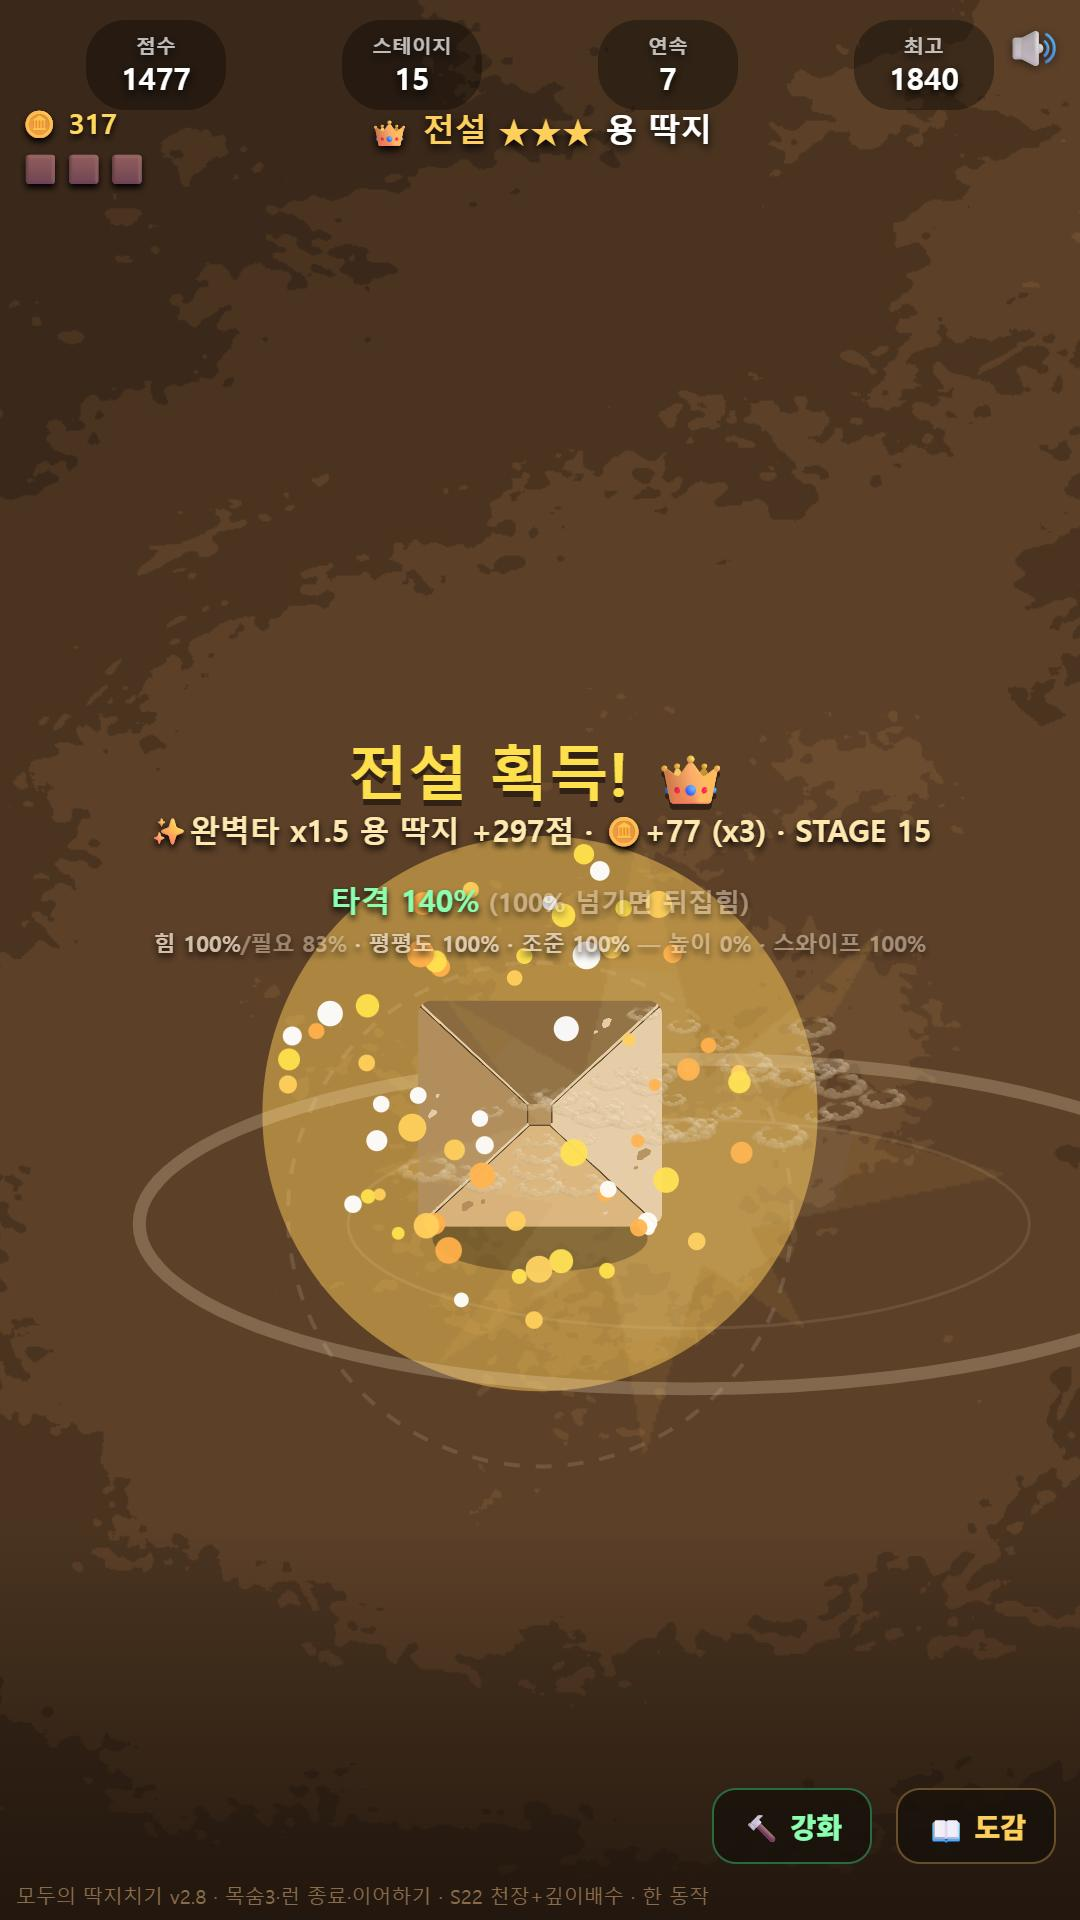
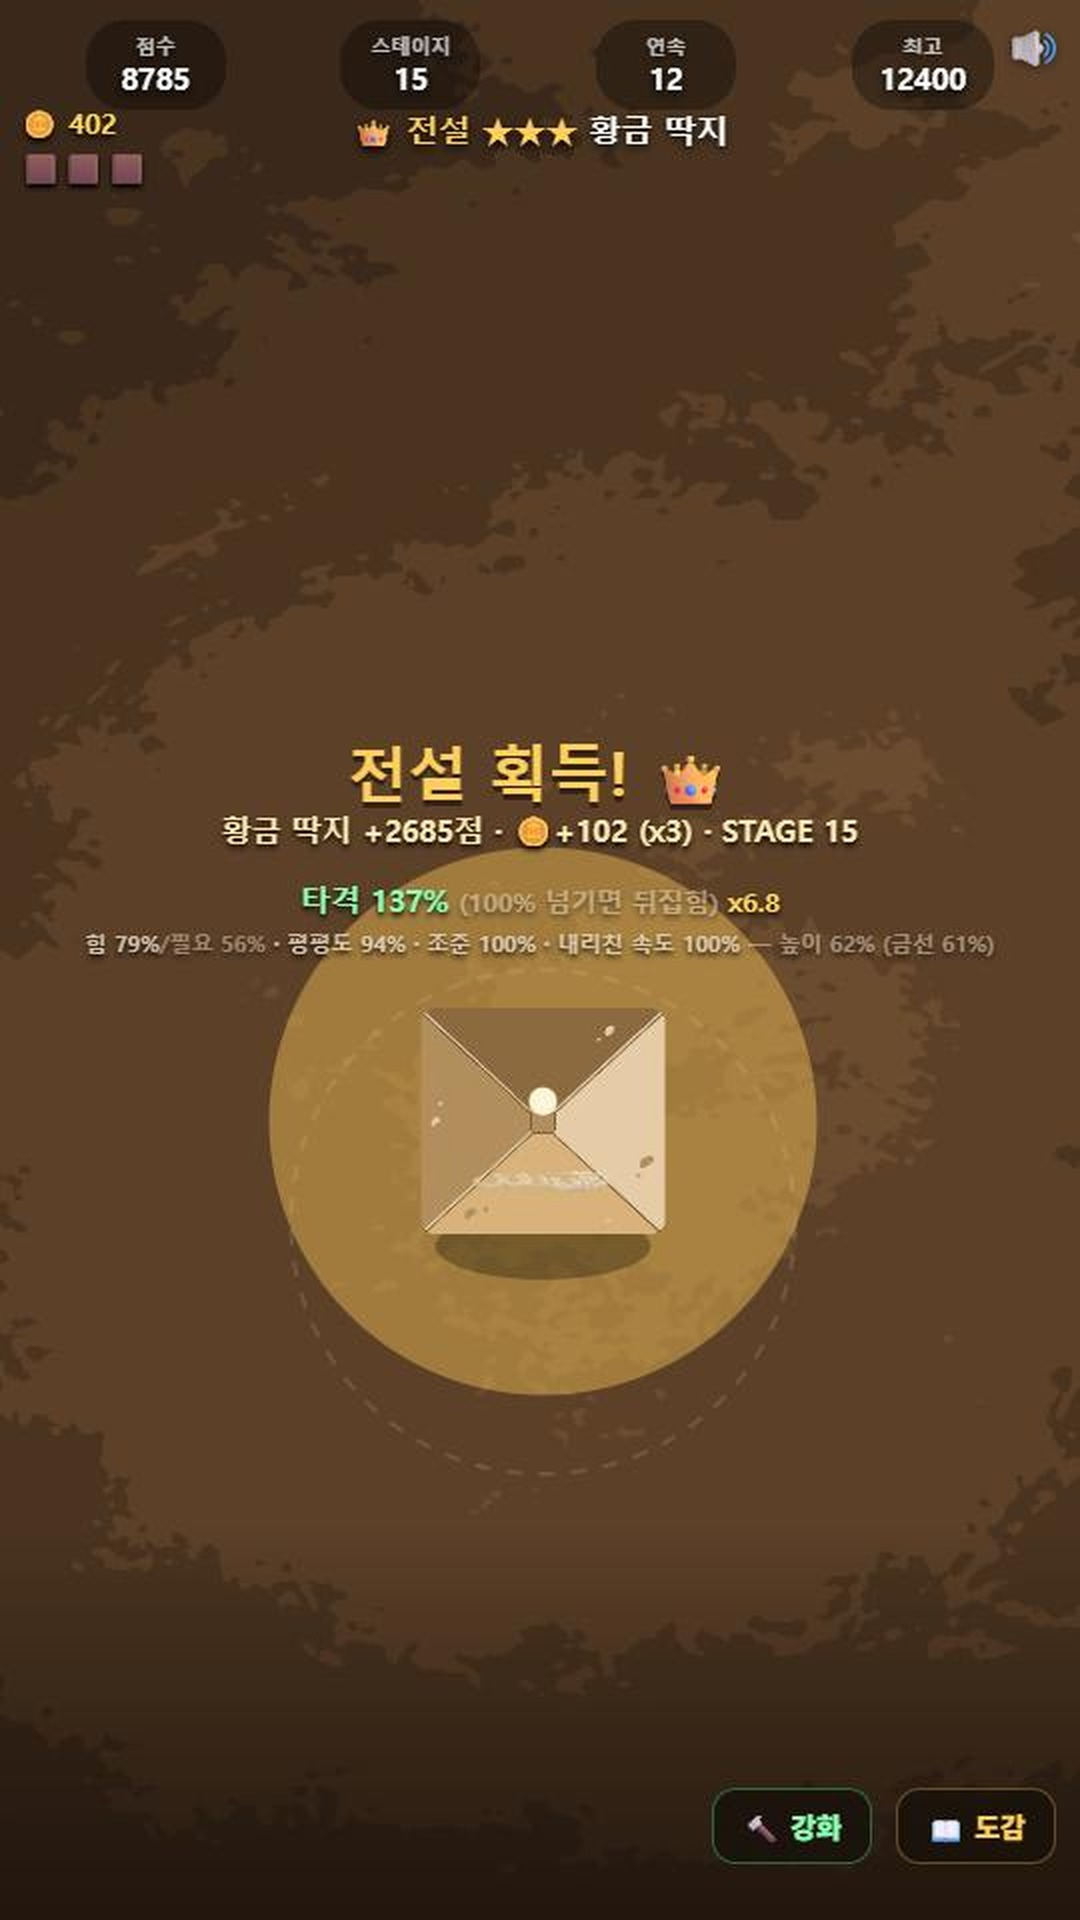
스토어 스크린샷 4장을 v3.0 화면으로 다시 찍었다
기존 3장은 v2.8 의 '랜덤 고스트 목표' UI 라, 지금 설치한 사람이 보는
화면과 다르다. v3.0 은 금선/안전선 두 선과 실시간 배수가 핵심이다.

  1 shot1-goldline  금선·안전선 + 실시간 배수 x6.9 가 보이는 조준 화면
  2 shot2-win       금선 정타 → 타격 137% x6.8 → 전설 황금 딱지 획득
  3 shot3-dex       도감 12/12
  4 shot4-shop      엽전 강화

1번을 맨 앞에 둔 이유: "아슬아슬할수록 배수가 크다"가 글 없이 읽혀야 한다.
금선 라벨(금선 x7)과 현재 배수(x6.9)가 한 화면에 같이 보이는 순간을 골랐다.
2번은 리워드 광고 버튼을 숨기고 찍었다 — 첫인상에 광고가 보이면 손해다.
9스테이지 이상은 딱지 '바로 위'가 아니라 '옆'을 쳐야 하므로(Dg),
조준도 실제 최적 지점에 맞춰 찍었다. 가운데로 찍으면 조준 고리가
빨갛게 나와 잘못 플레이하는 그림이 된다.

모두 1080x1920 JPEG, 9:16. 실제 게임을 직접 구동해 촬영했다.
옛 shot1~6-*.png(v1.3 이전)와 shot1-play.jpg(v2.8)는 비교용으로 남긴다.

diff --git a/STORE-LISTING.md b/STORE-LISTING.md
@@ -125,12 +125,17 @@ match /ddakji_scores/{uid} {
 ## 스토어 자산 (보유 현황)
 - ✅ 아이콘 `releases/icon-512.png` (512×512) — **바람개비 신아트로 교체됨**
 - ✅ 피처 그래픽 `store-assets/feature-1024x500.png` (1024×500) — **바람개비 신아트로 교체됨**
-- ✅ 스크린샷 — **업로드는 아래 3장을 쓸 것** (v2.8 게임을 직접 촬영, 1080×1920)
-  | 파일 | 장면 |
-  |---|---|
-  | `store-assets/shot1-play.jpg` | 조준·고스트 목표가 보이는 플레이 화면 |
-  | `store-assets/shot2-win.jpg` | 뒤집기 성공 연출 |
-  | `store-assets/shot3-dex.jpg` | 딱지 도감 |
-- 📦 `store-assets/shot1~6-*.png` (1080×1920)은 **v1.3 이전 옛 아트**라 업로드하지 않지만,
-  비교용으로 보관한다
+- ✅ 스크린샷 — **업로드는 아래 4장, 이 순서로** (v3.0 게임을 직접 촬영, 1080×1920 JPEG, 9:16)
+  | 순서 | 파일 | 장면 | 왜 이 순서인가 |
+  |---|---|---|---|
+  | 1 | `store-assets/shot1-goldline.jpg` | 금선/안전선과 실시간 배수 x6.9 가 보이는 조준 화면 | 이 게임의 핵심 선택을 한 장으로 설명한다 |
+  | 2 | `store-assets/shot2-win.jpg` | 금선 정타 → 타격 137% x6.8 → 전설 황금 딱지 획득 | 그 선택이 주는 보상 |
+  | 3 | `store-assets/shot3-dex.jpg` | 딱지 도감 12/12 수집 | 모으는 재미 |
+  | 4 | `store-assets/shot4-shop.jpg` | 엽전으로 힘·정확도·집중력 영구 강화 | 계속할 이유 |
+
+  1번은 "아슬아슬할수록 배수가 크다"가 글 없이 읽히도록 금선 라벨(`금선 x7`)과
+  현재 배수(`x6.9`)가 같이 보이는 순간을 골랐다. 2번의 광고 버튼(리워드)은
+  일부러 숨기고 찍었다 — 첫인상에 광고가 보이면 설치율이 떨어진다.
+- 📦 보관만: `shot1~6-*.png`(v1.3 이전 옛 아트), `shot1-play.jpg`(v2.8 고스트 UI).
+  업로드하지 않는다. v2.8 까지의 조작 설명(랜덤 고스트 목표)이 지금과 다르다.
 - 개인정보처리방침 URL (기존 privacy-site 재사용 가능)
